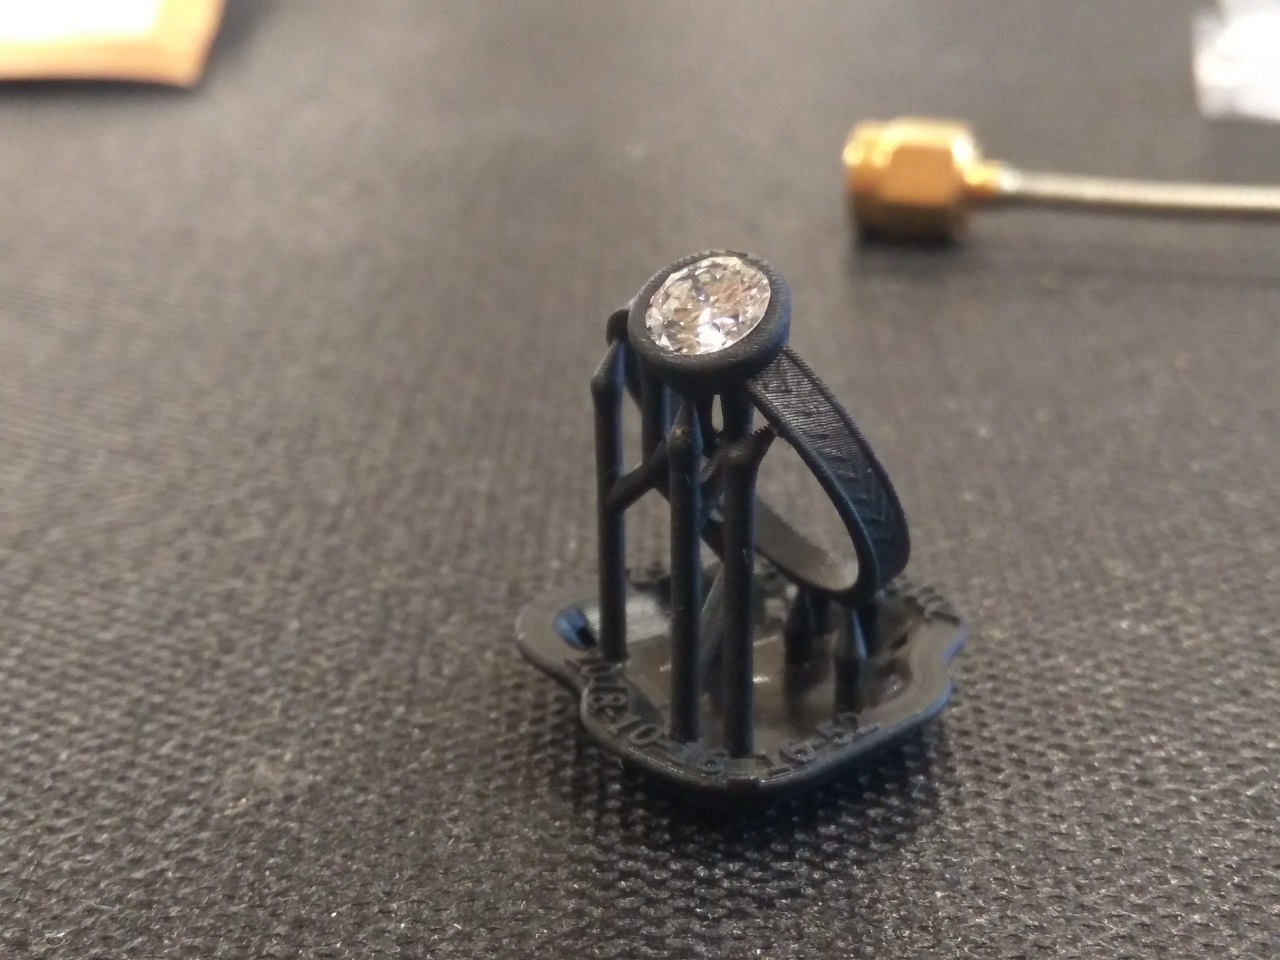
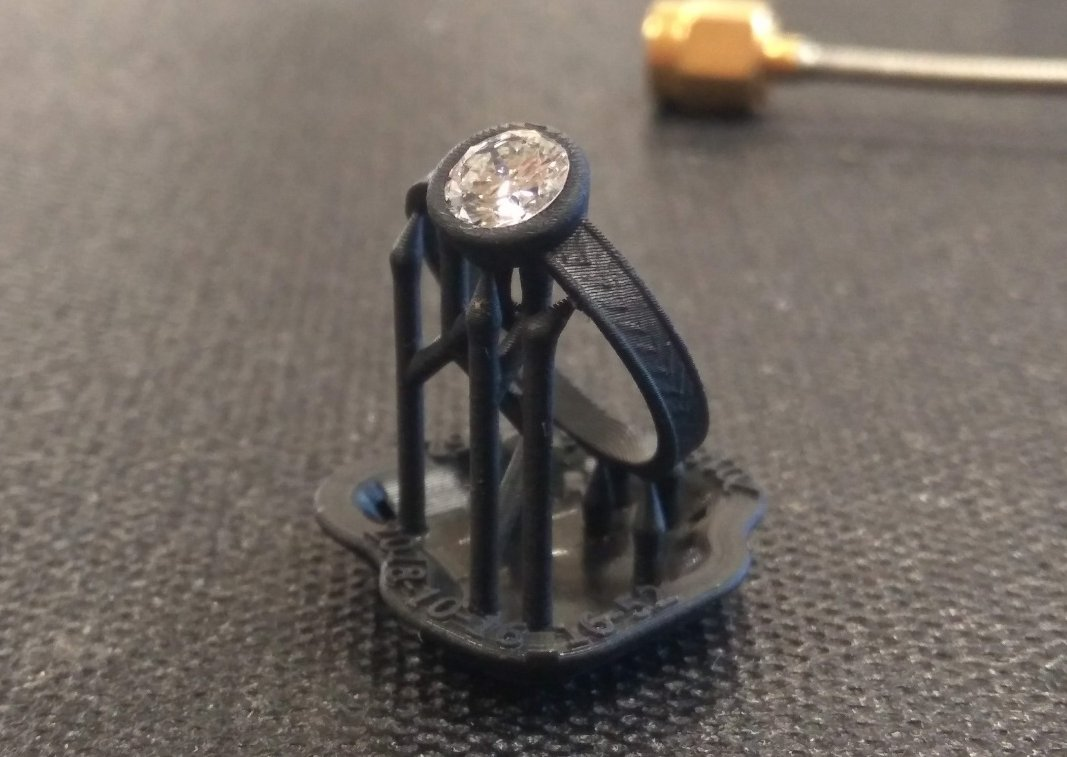
Add captions, improve post media

diff --git a/content/posts/2019/diy-wedding-ring.md b/content/posts/2019/diy-wedding-ring.md
@@ -9,23 +9,31 @@ title = "3D Printed Wedding Ring"
 date = "2019-07-03T17:50:22-07:00"
 +++
 
+<p class="text-center" style="font-style:oblique">
+Professional photos from <a href="http://justine-russo.com/" target="_blank">Justine Russo Photography.</a>
+</p>
+
 # The Backstory
 
 Lorem ipsum dolor sit amet, consectetur adipiscing elit, sed do eiusmod tempor incididunt ut labore et dolore magna aliqua. Ut enim ad minim veniam, quis nostrud exercitation ullamco laboris nisi ut aliquip ex ea commodo consequat. Duis aute irure dolor in reprehenderit in voluptate velit esse cillum dolore eu fugiat nulla pariatur. Excepteur sint occaecat cupidatat non proident, sunt in culpa qui officia deserunt mollit anim id est laborum.
 
-{{<loop-vid caption="Foobar" src="/imgs/blog-imgs/diy-wedding-ring/fusion 360 screencast_trimmed.mp4">}}
+{{<loop-vid caption="Timelapse of the ring design in Fusion 360. Yes I know, I should have just used a revolve feature." src="/imgs/blog-imgs/diy-wedding-ring/fusion 360 screencast_trimmed.mp4">}}
 
 # The Development
 
 ## Planning
 
+I casually brought up engagement ring designs with Heather, and she showed me a few designs that she liked.
+
+{{<img caption="Design research and inspirations." src="/imgs/blog-imgs/diy-wedding-ring/inspiration.png">}}
+
+Once I started to hone down on the desired design, I started my research on how to secure the stone.
+
 {{<loop-vid caption="How bezel set diamonds are typically set." link="https://www.youtube.com/watch?v=bqrf_XP2ZzI" link-text="Swarovski" src="/imgs/blog-imgs/diy-wedding-ring/bezel set.mp4">}}
 
-Pics from here https://www.gia.edu/bench-tip-modified-tool-to-bezel-set-round-faceted-stones
+Qualitative videos are great, but what I needed were actual dimensions on wall thickness, height, bend distance, etc. After much Googling, I fortunately found an article with the information I needed!
 
-{{<img caption="" src="/imgs/blog-imgs/diy-wedding-ring/144656.jpg" >}}
-{{<img caption="" src="/imgs/blog-imgs/diy-wedding-ring/144655 v2.jpg" >}}
-{{<img caption="" src="/imgs/blog-imgs/diy-wedding-ring/144654.jpg" >}}
+{{<img caption="Design guidelines for bezel set features." src="/imgs/blog-imgs/diy-wedding-ring/144654.jpg" link="https://www.gia.edu/bench-tip-modified-tool-to-bezel-set-round-faceted-stones" link-text="GIA">}}
 
 ## Initial Design
 
@@ -35,11 +43,11 @@ Pics from here https://www.gia.edu/bench-tip-modified-tool-to-bezel-set-round-fa
 
 ## Refinement
 
-{{<img caption="" src="/imgs/blog-imgs/diy-wedding-ring/IMG-20181028-WA0005.jpg" >}}
+{{<img caption="Original design on left, revised design on right." src="/imgs/blog-imgs/diy-wedding-ring/IMG-20181028-WA0005.jpg" >}}
 
 ## Sending to Shapeways
 
-{{<img caption="" src="/imgs/blog-imgs/diy-wedding-ring/shapeways-order.jpeg" >}}
+{{<img caption="Order placed (with express shipping, of course).z" src="/imgs/blog-imgs/diy-wedding-ring/shapeways-order.jpeg" >}}
 
 ## Setting the Diamond
 
@@ -47,7 +55,7 @@ Here's [another video](https://www.youtube.com/watch?v=-5Ix57Cetek) on how a sto
 
 {{<loop-vid caption="How bezel set diamonds are typically set." link="https://www.youtube.com/watch?v=0z6EOdgr6GQ" link-text="92nd Street Y" src="/imgs/blog-imgs/diy-wedding-ring/bezel set instructions.mp4">}}
 
-{{<img caption="" src="/imgs/blog-imgs/diy-wedding-ring/IMG_20181106_183320.jpg" >}}
+{{<img caption="The finished product!" src="/imgs/blog-imgs/diy-wedding-ring/IMG_20181106_183320.jpg" >}}
 
 ## The Proposal
 
@@ -57,14 +65,12 @@ Here's [another video](https://www.youtube.com/watch?v=-5Ix57Cetek) on how a sto
 
 ## ... The Boo Boo
 
-{{<img caption="" src="/imgs/blog-imgs/diy-wedding-ring/ring-side-view.png" >}}
+{{<img caption="The flat edge under the stone reduces the actual inner diameter..." src="/imgs/blog-imgs/diy-wedding-ring/ring-side-view.png" >}}
 
-{{<img caption="" src="/imgs/blog-imgs/diy-wedding-ring/IMG_20190818_115332.jpg" >}}
-
-{{<img caption="" src="/imgs/blog-imgs/diy-wedding-ring/IMG_20181121_175343.jpg" >}}
+{{<img caption="The aftermath of the resizing. Fortunately it's not (very) visible while it's worn." src="/imgs/blog-imgs/diy-wedding-ring/aftermath.jpg" >}}
 
 ## Final Thoughts
 
-{{<img caption="" src="/imgs/blog-imgs/diy-wedding-ring/J_H-10.jpg" >}}
+{{<img caption="DIY engagement ring sandwiched between our not-DIY wedding rings." src="/imgs/blog-imgs/diy-wedding-ring/J_H-10.jpg" link="http://justine-russo.com/http://justine-russo.com/" link-text="Justine Russo Photography">}}
 
 
